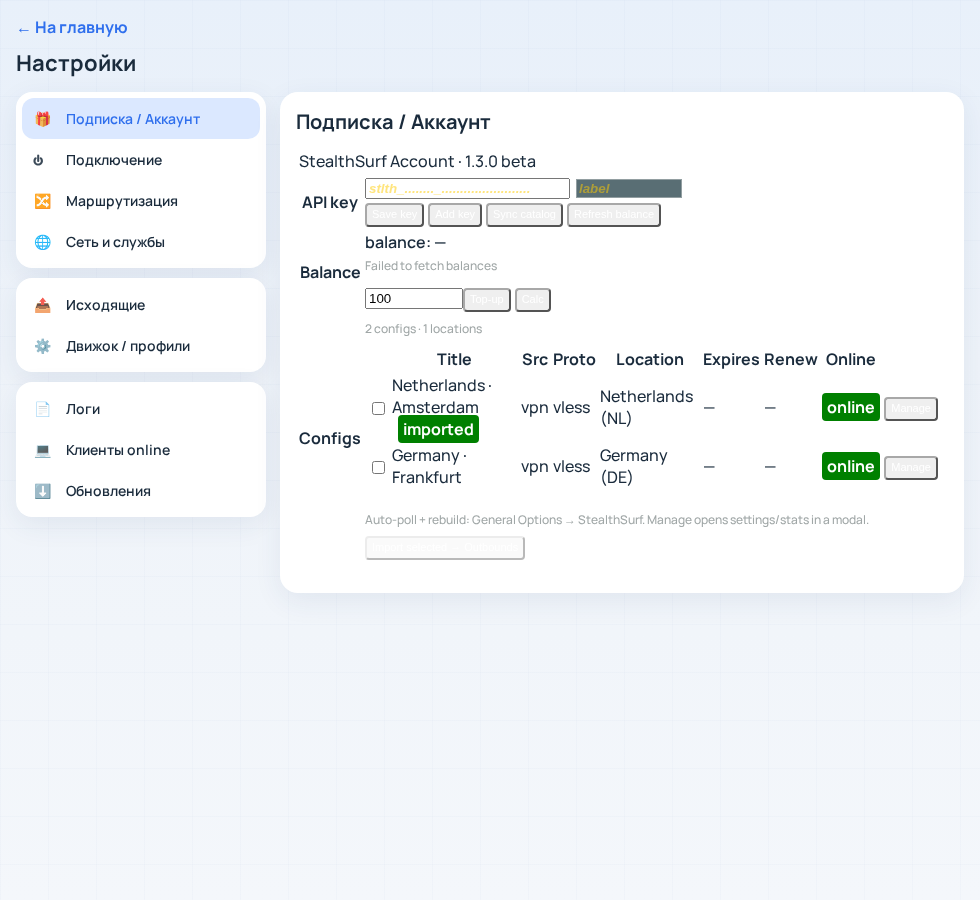
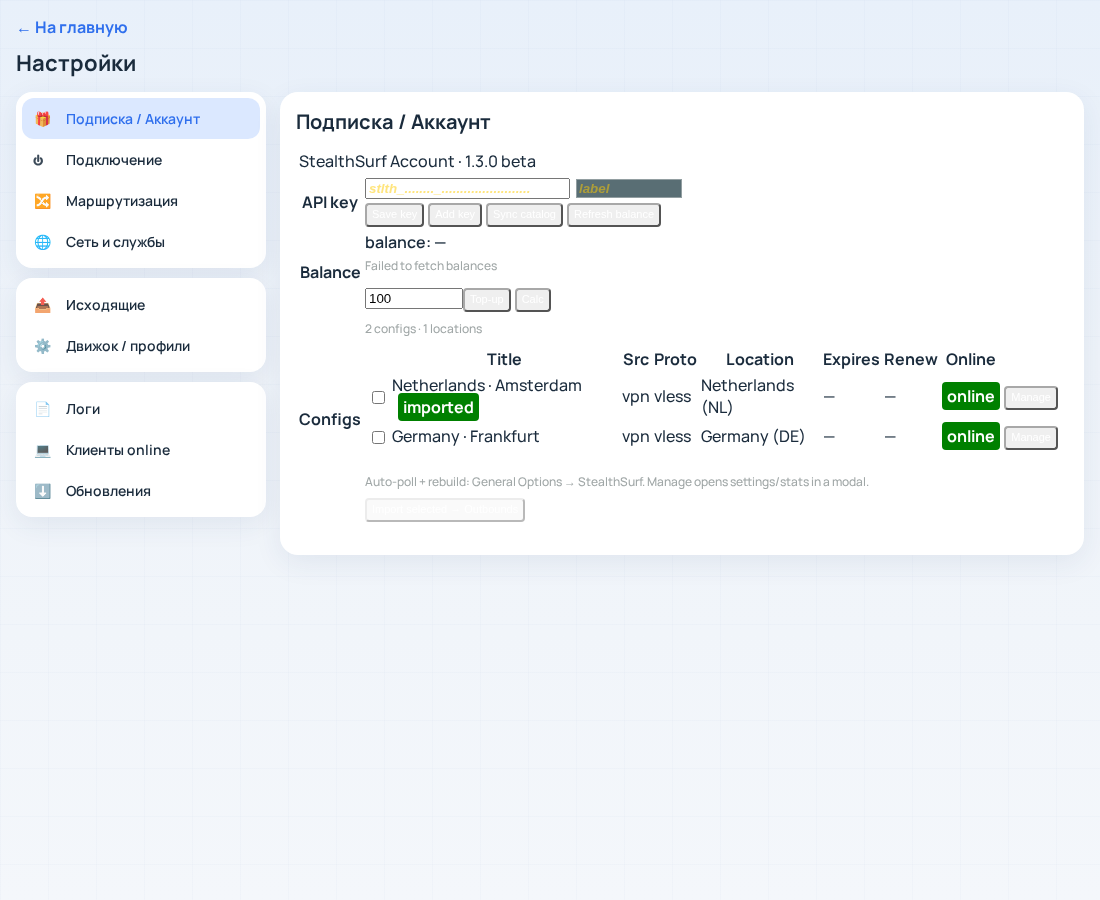
docs: refresh README screenshots for light panel 1.3.0
Replace Merlin-era gallery with home/settings/routing/DNS shots
from the standalone light UI on :1131.

diff --git a/README.md b/README.md
@@ -1,5 +1,5 @@
 <p align="center">
-  <img src="./docs/screenshots/01-status-running.png" alt="StealthSurf on Asuswrt-Merlin" width="920">
+  <img src="./docs/screenshots/01-status-running.png" alt="StealthSurf light panel on :1131" width="420">
 </p>
 
 <h1 align="center">StealthSurf</h1>
@@ -126,16 +126,16 @@ curl -fsSL https://raw.githubusercontent.com/Homavi88/Stealthsurf-Asus/main/inst
 Основной UI — **светлая панель** на `http://<lan_ip>:1131/`: статус, скорость, объём, ЦП/ОЗУ и Старт/Стоп на главной; остальное — в **Настройки** по разделам. Вкладка Merlin **VPN → StealthSurf** сохраняет классический FormTable.
 
 <p align="center">
-  <img src="./docs/screenshots/06-routing-builder.png" alt="Routing rule builder" width="900">
+  <img src="./docs/screenshots/08-settings-modal.png" alt="StealthSurf settings — account and catalog" width="920">
 </p>
 
-| Каталог | Подсказки доменов |
+| Главная | Настройки · маршрутизация |
 | --- | --- |
-| ![Каталог](./docs/screenshots/02-catalog.png) | ![Suggest](./docs/screenshots/07-routing-suggest.png) |
+| ![Главная](./docs/screenshots/01-status-running.png) | ![Маршрутизация](./docs/screenshots/03-routing.png) |
 
-| DNS | General Options |
+| Сеть / DNS | Конфликт с XrayUI |
 | --- | --- |
-| ![DNS](./docs/screenshots/04-mode-dns.png) | ![Settings](./docs/screenshots/08-settings-modal.png) |
+| ![Сеть](./docs/screenshots/04-mode-dns.png) | ![Конфликт](./docs/screenshots/05-xrayui-conflict.png) |
 
 ## Старт за 5 шагов
 
